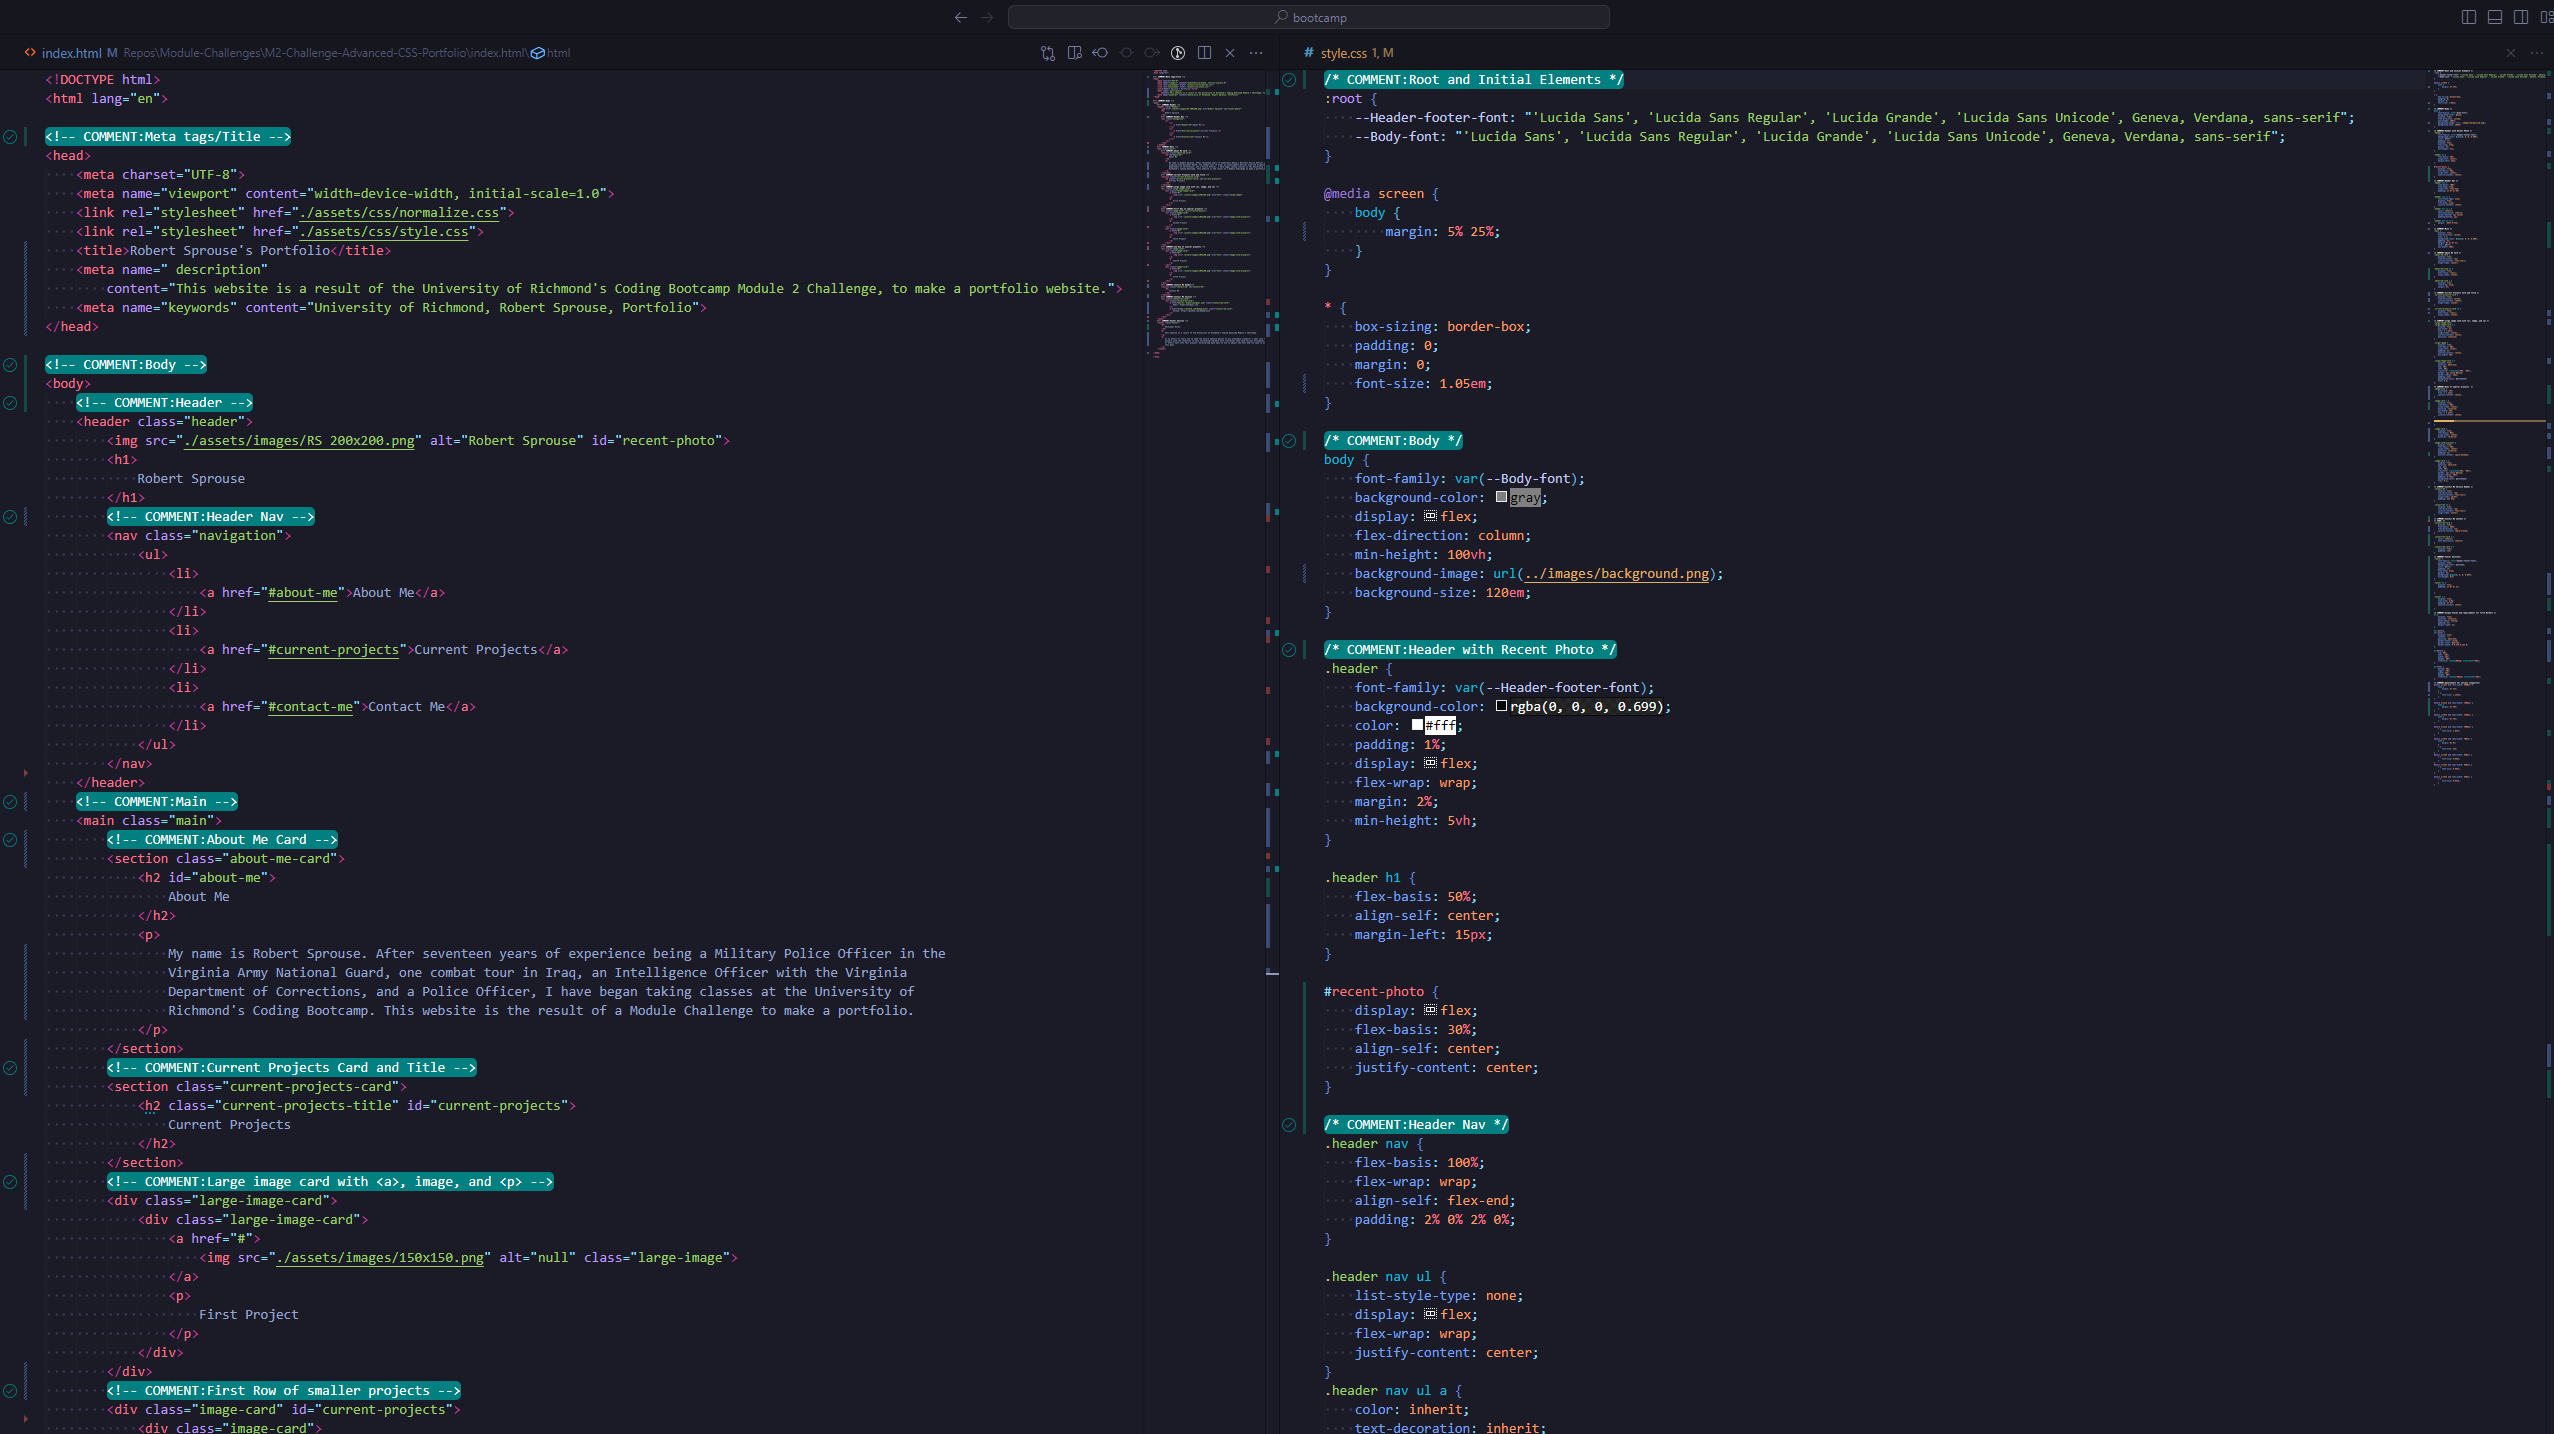
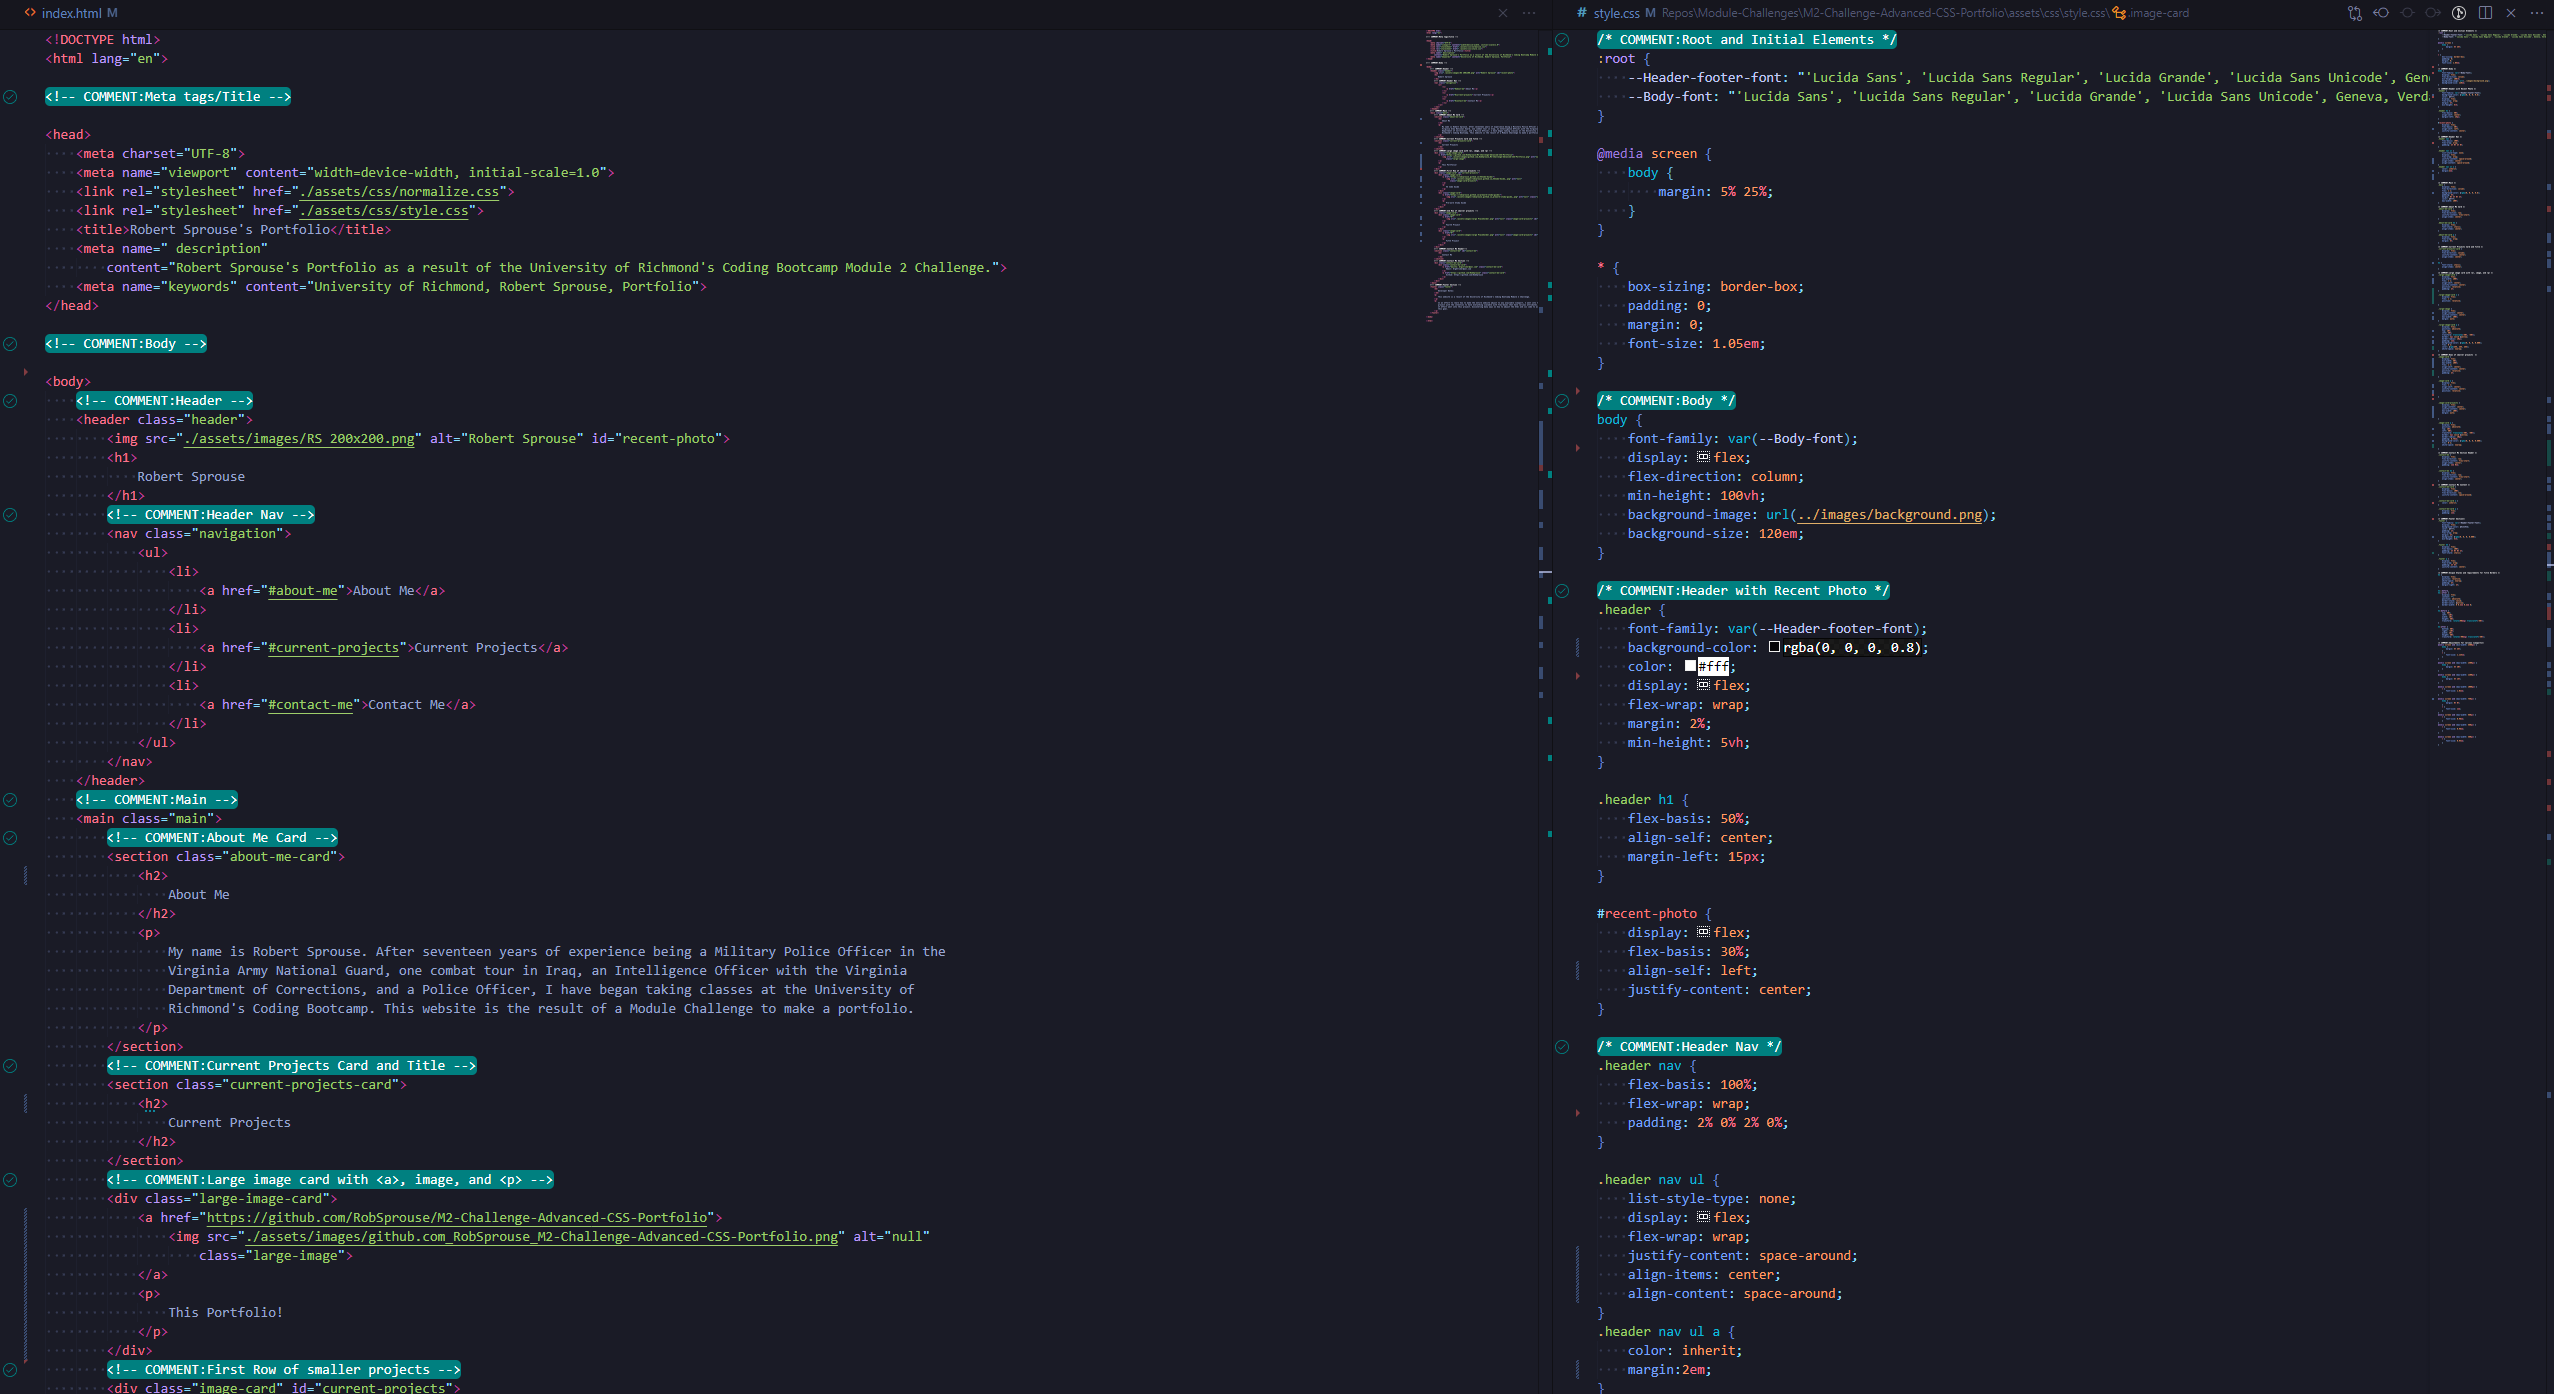
Final before submit
Final before submit

diff --git a/assets/css/style.css b/assets/css/style.css
@@ -17,12 +17,9 @@
     font-size: 1.05em;
 }
 
-/* TODO: orgainze code */
-
 /* COMMENT:Body */
 body {
     font-family: var(--Body-font);
-    background-color: gray;
     display: flex;
     flex-direction: column;
     min-height: 100vh;
@@ -33,9 +30,8 @@ body {
 /* COMMENT:Header with Recent Photo */
 .header {
     font-family: var(--Header-footer-font);
-    background-color: rgba(0, 0, 0, 0.699);
+    background-color: rgba(0, 0, 0, 0.8);
     color: #fff;
-    padding: 1%;
     display: flex;
     flex-wrap: wrap;
     margin: 2%;
@@ -51,7 +47,7 @@ body {
 #recent-photo {
     display: flex;
     flex-basis: 30%;
-    align-self: center;
+    align-self: left;
     justify-content: center;
 }
 
@@ -59,7 +55,6 @@ body {
 .header nav {
     flex-basis: 100%;
     flex-wrap: wrap;
-    align-self: flex-end;
     padding: 2% 0% 2% 0%;
 }
 
@@ -67,16 +62,13 @@ body {
     list-style-type: none;
     display: flex;
     flex-wrap: wrap;
-    justify-content: center;
+    justify-content: space-around;
+    align-items: center;
+    align-content: space-around;
 }
 .header nav ul a {
     color: inherit;
-    text-decoration: inherit;
-    border-bottom: 1px solid;
-    padding-bottom: 1px;
-}
-.header nav ul li {
-    margin: 0.05em 0.5em;
+    margin: 2em;
 }
 
 /* COMMENT:Main */
@@ -84,7 +76,7 @@ body {
     display: flex;
     flex-direction: column;
     flex: 1 1;
-    background-color: rgba(0, 0, 0, 0.699);
+    background-color: rgba(0, 0, 0, 0.8);
     padding: 5%;
     margin: 0% 2% 0% 2%;
     color: #fff;
@@ -119,94 +111,91 @@ body {
     align-items: center;
 }
 
-.current-projects-card h2 {
-    display: flex;
+h2 {
     font-style: italic;
     align-items: center;
 }
 
 /* COMMENT:Large image card with <a>, image, and <p> */
-/* TODO:Add Style to linked image */
-.large-image-card,
+.large-image-card {
+    display: flex;
+    min-width: 100%;
+    flex: 1 1;
+    align-self: center;
+    justify-content: center;
+    position: relative;
+    padding: 2%;
+}
+
 .large-image-card a {
     display: flex;
-    min-width: 5%;
-    flex: 1 1 auto;
-    align-items: center;
-    justify-content: center;
+    flex: 1 1;
     position: relative;
 }
 
 .large-image {
     display: flex;
-    flex-basis: 80%;
-    align-self: center;
-    padding: 2%;
+    align-content: center;
     justify-content: center;
-    min-width: 10%;
+    max-width: 100%;
+    margin: auto;
 }
 
 .large-image-card p {
     display: flex;
     position: absolute;
-    top: 18%;
+    top: 10%;
     left: 50%;
     transform: translate(-50%, -50%);
-    border: 2px solid black;
+    border: 2px solid yellow;
     border-radius: 10px;
-    padding: 2em;
-    background-color: #13293db6;
+    padding: 1em;
+    background-color: rgba(0, 0, 0, 0.8);
     flex: 0 2;
+    color: rgb(255, 255, 255);
+    white-space: nowrap;
 }
 
 /* COMMENT:Rows of smaller projects  */
-/* TODO:Add Style to linked image */
 .image-card {
-    min-width: 10%;
-    flex: 1 1 auto;
+    display: flex;
+    min-width: 50%;
+    max-width: 100%;
+    flex: 1 1;
+    align-self: center;
     justify-content: center;
+    position: relative;
+    padding: 2%;
 }
 
 .image-card a {
     display: flex;
-    flex-basis: 80%;
-    align-items: center;
-    position: relative;
-    min-width: 10%;
-    flex: 1 1 auto;
+    flex: 1 1;
+    align-self: center;
     justify-content: center;
-}
-
-.image-card-projects {
-}
-
-.image-card {
-    display: flex;
-    flex-basis: 80%;
-    align-items: center;
     position: relative;
 }
 
 .image-card-projects {
     display: flex;
-    flex-basis: 80%;
-    align-items: center;
-    position: relative;
-    padding: 2%;
-    justify-content: space-between;
+    align-content: center;
+    justify-content: center;
+    max-width: 100%;
+    margin: auto;
 }
 
 .image-card p {
     display: flex;
     position: absolute;
-    top: 22%;
+    top: 18%;
     left: 50%;
     transform: translate(-50%, -50%);
-    border: 2px solid black;
+    border: 2px solid yellow;
     border-radius: 10px;
     padding: 0.75em;
-    background-color: #13293db6;
+    background-color: rgba(0, 0, 0, 0.8);
     flex: 0 2;
+    white-space: nowrap;
 }
 
 /* COMMENT:Contact Me Section Header */
@@ -226,7 +215,6 @@ body {
 }
 
 /* COMMENT:Contact Me Content */
-/* TODO: Add style to content*/
 .contact-me-card {
     display: flex;
     flex-basis: 100%;
@@ -236,7 +224,6 @@ body {
 
 .contact-me-card a {
     color: inherit;
-    text-decoration: inherit;
 }
 
 .contact-me-card p {
@@ -245,7 +232,6 @@ body {
 }
 
 /* COMMENT:Footer Section*/
-/* TODO:Add style to develop notes { } */
 .footer {
     font-family: var(--Header-footer-font);
     display: flex;
@@ -254,7 +240,7 @@ body {
     padding: 1%;
     flex-wrap: wrap;
     margin: 2%;
-    background: rgba(0, 0, 0, 0.699);
+    background: rgba(0, 0, 0, 0.8);
     min-height: 5vh;
 }
 
@@ -262,6 +248,7 @@ body {
     display: flex;
     flex-basis: 100%;
     padding: 2% 0% 0% 2%;
+    font-style: italic;
 }
 
 .footer p {
@@ -334,7 +321,7 @@ h2:after {
     }
 }
 
-@media screen and (max-width: 700px) {
+@media screen and (max-width: 750px) {
     body {
         margin: 0% 0%;
     }

diff --git a/index.html b/index.html
@@ -16,7 +16,6 @@
 
 <!-- COMMENT:Body -->
 
-
 <body>
     <!-- COMMENT:Header -->
     <header class="header">
@@ -43,7 +42,7 @@
     <main class="main">
         <!-- COMMENT:About Me Card -->
         <section class="about-me-card">
-            <h2 id="about-me">
+            <h2>
                 About Me
             </h2>
             <p>
@@ -55,61 +54,57 @@
         </section>
         <!-- COMMENT:Current Projects Card and Title -->
         <section class="current-projects-card">
-            <h2 class="current-projects-title" id="current-projects">
+            <h2>
                 Current Projects
             </h2>
         </section>
         <!-- COMMENT:Large image card with <a>, image, and <p> -->
         <div class="large-image-card">
-            <div class="large-image-card">
-                <a href="#"> <!-- TODO:Add link to project -->
-                    <img src="./assets/images/150x150.png" alt="null" class="large-image">
-                    <!-- TODO:Add ID and change picture -->
-                </a>
-                <p>
-                    First Project <!-- TODO:Change Name -->
-                </p>
-            </div>
+            <a href="https://github.com/RobSprouse/M2-Challenge-Advanced-CSS-Portfolio">
+                <img src="./assets/images/github.com_RobSprouse_M2-Challenge-Advanced-CSS-Portfolio.png" alt="null"
+                    class="large-image">
+            </a>
+            <p>
+                This Portfolio!
+            </p>
         </div>
         <!-- COMMENT:First Row of smaller projects -->
         <div class="image-card" id="current-projects">
             <div class="image-card">
-                <a href="#"> <!-- TODO:Add link to project -->
-                    <img src="./assets/images/100x100.png" alt="null" class="image-card-projects">
-                    <!-- TODO:Add ID and change picture -->
+                <a href="https://robsprouse.github.io/VSCode-Guide/">
+                    <img src="./assets/images/robsprouse.github.io_VSCode-Guide_.png" alt="null"
+                        class="image-card-projects">
                 </a>
                 <p>
-                    Second Project <!-- TODO:Change Name -->
+                    VS Code Guide
                 </p>
             </div>
             <div class="image-card">
-                <a href="#"> <!-- TODO:Add link to project -->
-                    <img src="./assets/images/100x100.png" alt="null" class="image-card-projects">
-                    <!-- TODO:Add ID and change picture -->
+                <a href="https://robsprouse.github.io/prework-study-guide/">
+                    <img src="./assets/images/robsprouse.github.io_prework-study-guide_.png" alt="null"
+                        class="image-card-projects" id="null">
                 </a>
                 <p>
-                    Third Project <!-- TODO:Change Name -->
+                    Pre-work Study Guide
                 </p>
             </div>
         </div>
         <!-- COMMENT:2nd Row of smaller projects -->
         <div class="image-card">
             <div class="image-card">
-                <a href="#"> <!-- TODO:Add link to project -->
-                    <img src="./assets/images/100x100.png" alt="null" class="image-card-projects">
-                    <!-- TODO:Add ID and change picture -->
+                <a href="#">
+                    <img src="./assets/images/large Placeholder.png" alt="null" class="image-card-projects" id="null">
                 </a>
                 <p>
-                    Fourth Project <!-- TODO:Change Name -->
+                    Fourth Project
                 </p>
             </div>
             <div class="image-card">
-                <a href="#"> <!-- TODO:Add link to project -->
-                    <img src="./assets/images/100x100.png" alt="null" class="image-card-projects">
-                    <!-- TODO:Add ID and change picture -->
+                <a href="#">
+                    <img src="./assets/images/large Placeholder.png" alt="null" class="image-card-projects" id="null">
                 </a>
                 <p>
-                    Fifth Project <!-- TODO:Change Name -->
+                    Fifth Project
                 </p>
             </div>
         </div>
